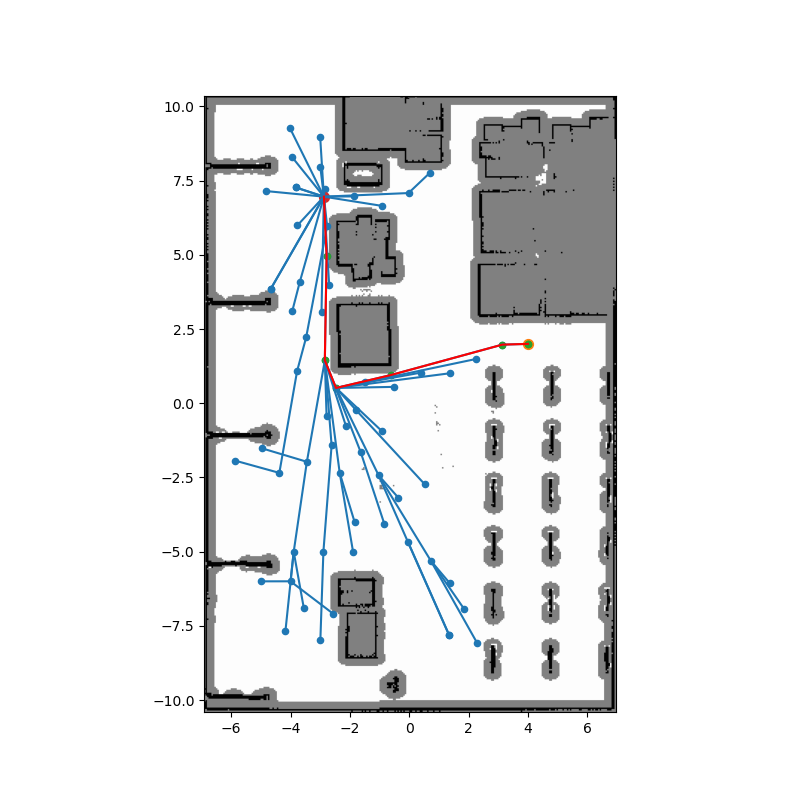
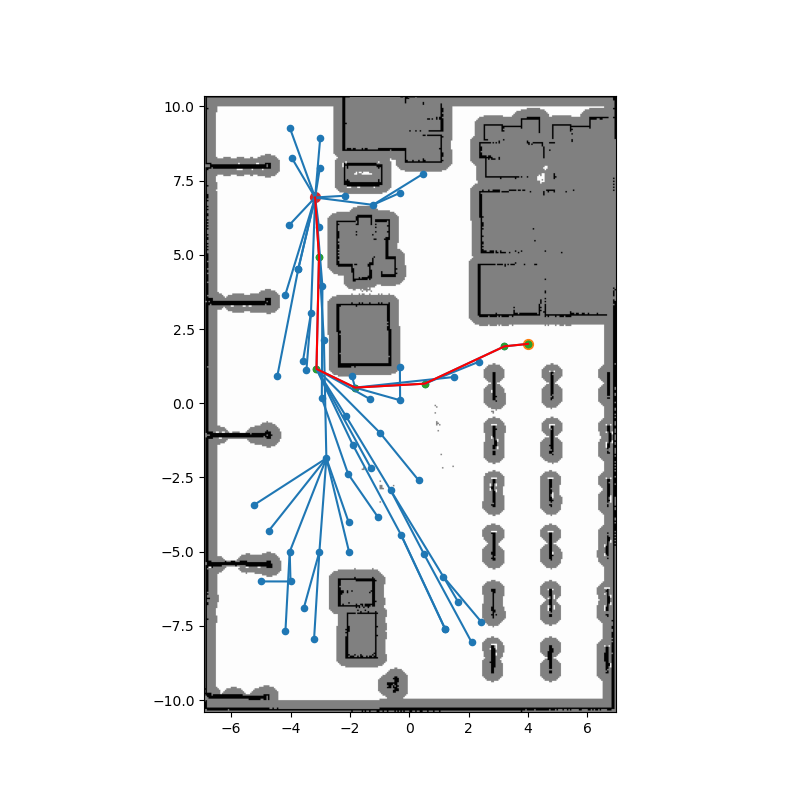
Add files via upload

diff --git a/el7009_diff_drive_robot/scripts/dwa_node.py b/el7009_diff_drive_robot/scripts/dwa_node.py
@@ -29,26 +29,34 @@ class DWANode(Node):
         self.plan_sub = self.create_subscription(Path, '/global_plan', self.plan_callback, 10)
 
         # Timer para ejecutar el planner a intervalos regulares
+
         self.timer = self.create_timer(0.1, self.timer_callback)
+        self.sign =-1
+        self.time = 6
 
         # Estado del robot: x, y, theta, v, w
         self.state = np.zeros(5)
         self.scan = None
+        self.hc=1.0
+        self.vc=0.5
+        self.ac=1.25
 
         # Parámetros del robot (Differential robot)
         self.min_speed= 0.0
         self.max_speed = 0.3
-        self.max_yawrate = np.radians(40.0)
-        self.max_accel = 1.0
-        self.max_dyawrate = np.radians(150.0)
+        self.max_yawrate = 1.0
+        self.max_accel = 1.5
+        self.max_dyawrate = 2.0
         self.last_odom_time = None
-        self.predict_time = 2.0
+        self.predict_time = 3.0
         self.dt = 0.1
         self.last_state_time = 0
-        self.min_goal_distance = 0.2
+        self.min_goal_distance = 0.5
+        self.recalculating = False
         # Plan global
         self.global_path = []
         self.goal_index = 0
+
 
     def odom_callback(self, msg): #Odom para velocidades
         pos = msg.pose.pose.position
@@ -72,7 +80,7 @@ class DWANode(Node):
 
     def scan_callback(self, msg):
         self.scan = np.array(msg.ranges)
-        # self.get_logger().info(f'Sensors: {self.scan}')
+        # self.get_logger().info(f'N Sensors: {len(self.scan)}')
         self.angle_min = msg.angle_min
         self.angle_increment = msg.angle_increment
         self.range_min = msg.range_min
@@ -95,19 +103,44 @@ class DWANode(Node):
         if len(self.global_path)==0:
             self.get_logger().info('Esperando un plan')
             return 
-        
         obstacles = self.scan_to_obstacles(self.scan)
-        if self.global_path:
+        if self.global_path and not np.hypot(self.global_path[-1][0] - self.state[0], self.global_path[-1][1] - self.state[1]) < 0.2:
             while (self.goal_index < len(self.global_path) - 1 and
                    np.hypot(self.global_path[self.goal_index][0] - self.state[0],
                             self.global_path[self.goal_index][1] - self.state[1]) < self.min_goal_distance):
                 self.goal_index += 1
             goal = self.global_path[self.goal_index]
             # self.get_logger().info(f'Goal {self.goal_index+1} of {len(self.global_path)}')
-            control= self.dwa_control(self.state, goal, obstacles)
+            control, score= self.dwa_control(self.state, goal, obstacles)
+            if control[0] < 0.01 and control[1]<0.1:
+                if self.last_state_time is None:
+                    self.last_state_time=self.last_odom_time
+                elif self.last_odom_time-self.last_state_time > 5:
+                    if self.last_odom_time - self.last_state_time<7:
+                        r_state=self.state-[0.0,0.0,np.pi/2,0,0]
+                        l_state=self.state+[0.0,0.0,np.pi/2,0,0]
+                        r_control,r_score=self.dwa_control(r_state, goal, obstacles)
+                        l_control,l_score=self.dwa_control(l_state, goal, obstacles)
+                        if r_score>l_score:
+                            control[1]=np.pi/6
+                        else:
+                            control[1]=-np.pi/6
+                    else:
+                        self.last_state_time=self.last_odom_time
+                self.get_logger().info(f'Robot has been still for {self.last_odom_time-self.last_state_time}s')
+            else:
+                self.last_state_time = None
+            
+            if self.goal_index<=1 and len(self.global_path)>1:
+                dx = goal[0] - self.state[0]
+                dy = goal[1] - self.state[1]
+                angle_to_goal = np.arctan2(dy, dx)
+                if abs(normalize_angle(angle_to_goal -  self.state[2]))/np.pi>0.5:
+                    control[0]=0.0
         else:
             control = [0.0, 0.0]
             self.get_logger().info(f'Goal Reached: {self.global_path[-1]}')
+            self.last_state_time = None
 
         msg = Twist()
         msg.linear.x = control[0]
@@ -122,7 +155,7 @@ class DWANode(Node):
             ox = self.state[0] + r * np.cos(self.state[2] + a)
             oy = self.state[1] + r * np.sin(self.state[2] + a)
             obstacles.append((ox, oy))
-            if r - self.range_min <=  0.001:
+            if r <= self.range_min :
                 # self.get_logger().info(f'Crash at {self.state[:2]}')
                 pose = PoseStamped()
                 pose.header.frame_id = 'map'
@@ -162,22 +195,23 @@ class DWANode(Node):
     def dwa_control(self, state, goal, obstacles):
         dw = self.calc_dynamic_window(state)
         best_score = []
-        best_cost= -float('inf')
+        best_cost= float('inf')
         best_u = [0.0, 0.0]
         best_traj = []
         for v in np.linspace(dw[0], dw[1], 5): # Linear velocity
             for w in np.linspace(dw[2], dw[3], 5): # Angular velocity 
                 traj = self.predict_trajectory(state,goal, v, w) # Predictions
                 score = self.evaluate_trajectory(traj, goal, obstacles) # Calculate score
-                cost = [1.0*score[0],0.5*score[1],2.0*score[2]] # Score Function
-                if sum(cost) > best_cost: # Save best configuration
+                cost = [self.hc*score[0],self.vc*score[1],self.ac*score[2]] # Score Function
+                if sum(cost) < best_cost: # Save best configuration
                     best_score = cost
                     best_cost = sum(cost)
                     best_u = [v, w]
                 best_traj.append(traj)
+           
         self.publish_path(best_traj)
-        self.get_logger().info(f'{best_score}')
-        return best_u
+        # self.get_logger().info(f'{best_score}')
+        return best_u, best_cost
 
     def calc_dynamic_window(self, state):
         
@@ -209,20 +243,20 @@ class DWANode(Node):
         dx = goal[0] - traj[-1][0]
         dy = goal[1] - traj[-1][1]
         angle_to_goal = np.arctan2(dy, dx)
-        heading_score = 1 - abs(normalize_angle(angle_to_goal -  traj[-1][2]))/np.pi
+        heading_score = abs(normalize_angle(angle_to_goal -  traj[-1][2]))/np.pi
         min_dist = self.range_max
         for ox, oy in obstacles:
-            for pose in traj:
+            for pose in traj[2:]:
                 x = pose[0]
                 y = pose[1]
                 d = np.sqrt((x - ox)**2 + (y - oy)**2)
                 # self.get_logger().info(f'{d}')
-                if d <= self.range_min+0.1:
-                    return [-float('inf')]*3 # If collision, return worst score
+                if d <= self.range_min+0.05:
+                    return [float('inf')]*3 # If collision, return worst score
                 min_dist = min(min_dist,d)
 
-        velocity_score = traj[-1][3]/self.max_speed
-        return [heading_score, velocity_score, min_dist/self.range_max]
+        velocity_score = 1-traj[-1][3]/self.max_speed
+        return [heading_score, velocity_score, self.range_min/min_dist]
 
 def main(args=None):
     rclpy.init(args=args)

diff --git a/el7009_diff_drive_robot/online_async_launch.py b/el7009_diff_drive_robot/online_async_launch.py
@@ -1,0 +1,89 @@
+import os
+
+from ament_index_python.packages import get_package_share_directory
+from launch import LaunchDescription
+from launch.actions import (DeclareLaunchArgument, EmitEvent, LogInfo,
+                            RegisterEventHandler)
+from launch.conditions import IfCondition
+from launch.events import matches_action
+from launch.substitutions import (AndSubstitution, LaunchConfiguration,
+                                  NotSubstitution)
+from launch_ros.actions import LifecycleNode
+from launch_ros.event_handlers import OnStateTransition
+from launch_ros.events.lifecycle import ChangeState
+from lifecycle_msgs.msg import Transition
+
+
+def generate_launch_description():
+    autostart = LaunchConfiguration('autostart')
+    use_lifecycle_manager = LaunchConfiguration("use_lifecycle_manager")
+    use_sim_time = LaunchConfiguration('use_sim_time')
+    slam_params_file = LaunchConfiguration('slam_params_file')
+
+    declare_autostart_cmd = DeclareLaunchArgument(
+        'autostart', default_value='true',
+        description='Automatically startup the slamtoolbox. '
+                    'Ignored when use_lifecycle_manager is true.')
+    declare_use_lifecycle_manager = DeclareLaunchArgument(
+        'use_lifecycle_manager', default_value='false',
+        description='Enable bond connection during node activation')
+    declare_use_sim_time_argument = DeclareLaunchArgument(
+        'use_sim_time',
+        default_value='true',
+        description='Use simulation/Gazebo clock')
+    declare_slam_params_file_cmd = DeclareLaunchArgument(
+        'slam_params_file',
+        default_value=os.path.join(get_package_share_directory("slam_toolbox"),
+                                   'config', 'mapper_params_online_async.yaml'),
+        description='Full path to the ROS2 parameters file to use for the slam_toolbox node')
+
+    start_async_slam_toolbox_node = LifecycleNode(
+        parameters=[
+          slam_params_file,
+          {
+            'use_lifecycle_manager': use_lifecycle_manager,
+            'use_sim_time': use_sim_time
+          }
+        ],
+        package='slam_toolbox',
+        executable='async_slam_toolbox_node',
+        name='slam_toolbox',
+        output='screen',
+        namespace=''
+    )
+
+    configure_event = EmitEvent(
+        event=ChangeState(
+          lifecycle_node_matcher=matches_action(start_async_slam_toolbox_node),
+          transition_id=Transition.TRANSITION_CONFIGURE
+        ),
+        condition=IfCondition(AndSubstitution(autostart, NotSubstitution(use_lifecycle_manager)))
+    )
+
+    activate_event = RegisterEventHandler(
+        OnStateTransition(
+            target_lifecycle_node=start_async_slam_toolbox_node,
+            start_state="configuring",
+            goal_state="inactive",
+            entities=[
+                LogInfo(msg="[LifecycleLaunch] Slamtoolbox node is activating."),
+                EmitEvent(event=ChangeState(
+                    lifecycle_node_matcher=matches_action(start_async_slam_toolbox_node),
+                    transition_id=Transition.TRANSITION_ACTIVATE
+                ))
+            ]
+        ),
+        condition=IfCondition(AndSubstitution(autostart, NotSubstitution(use_lifecycle_manager)))
+    )
+
+    ld = LaunchDescription()
+
+    ld.add_action(declare_autostart_cmd)
+    ld.add_action(declare_use_lifecycle_manager)
+    ld.add_action(declare_use_sim_time_argument)
+    ld.add_action(declare_slam_params_file_cmd)
+    ld.add_action(start_async_slam_toolbox_node)
+    ld.add_action(configure_event)
+    ld.add_action(activate_event)
+
+    return ld

diff --git a/el7009_diff_drive_robot/scripts/plotpose.py b/el7009_diff_drive_robot/scripts/plotpose.py
@@ -96,10 +96,10 @@ class PosePlotter(Node):
         fig, ax = plt.subplots(figsize=(8,10))
         while rclpy.ok():
             ax.clear()
-            ax.set_title(f"Distance to Objective")
+            ax.set_title(f"")
             if len(self.global_path_x)!=0:
-                ax.plot(self.global_path_x,self.global_path_y, 'b--', label='RRT* Path')
-                ax.scatter(self.global_path_x[1:],self.global_path_y[1:], c='b')
+                # ax.plot(self.global_path_x,self.global_path_y, 'b--', label='RRT* Path')
+                # ax.scatter(self.global_path_x[1:],self.global_path_y[1:], c='b')
                 ax.scatter(self.global_path_x[0],self.global_path_y[0], c='black', label='Init Position')
             if len(self.crashes) != 0:
                 ax.scatter(self.crashes[0][0],self.crashes[0][1], c='r', label='Crashes')
@@ -128,8 +128,8 @@ class PosePlotter(Node):
                 ]
                 ax.imshow(np.flipud(self._map), cmap='gray', extent=extent, origin='upper', vmin=0, vmax=100)
             ax.grid()
-            ax.legend(bbox_to_anchor=(1.1,1.15))
-            if self.goal_position is not None and len(self.global_path_x)>0 :
+            ax.legend(mode='expand', loc='upper center', ncol=5)
+            if self.goal_position is not None and len(self.global_path_x)>0:
                 a = len('install/el7009_diff_drive_robot/')
                 d = os.path.dirname(os.path.dirname(os.path.abspath(__file__)))
                 plt.savefig(f'{os.path.dirname(d)[:-a]}/el7009_diff_drive_robot/trajectory/({round(self.global_path_x[0])},{round(self.global_path_y[0])}){self.goal_position}.png')

diff --git a/el7009_diff_drive_robot/scripts/send_goal.py b/el7009_diff_drive_robot/scripts/send_goal.py
@@ -60,21 +60,21 @@ class GoalPublisher(Node):
 
 def main(args=None):
     goal_poses = [
-        [2,9.5],
         [-3,4],
         [4,2],
         [-3,-8],
         [2,-9],
-        [-4,10],
+        [-4,9],
+        [1.8,9],
         [4,-7],
+        [0,0],
         [-3,7],
         [1,4],
         [-2,-9],
         [0,0],
+        [4,-7],
         [-3,7],
         [4,2],
-        [0,0],
-        [4,-7],
     ]
     rclpy.init(args=args)
     node = GoalPublisher(goal_poses)

diff --git a/el7009_diff_drive_robot/launch/robot.launch.py b/el7009_diff_drive_robot/launch/robot.launch.py
@@ -130,7 +130,7 @@ def generate_launch_description():
         declare_world,
 
         # Launch the nodes
-        rrt_star,
+        # rrt_star,
         rviz2,
         rsp,
         gazebo_server,
